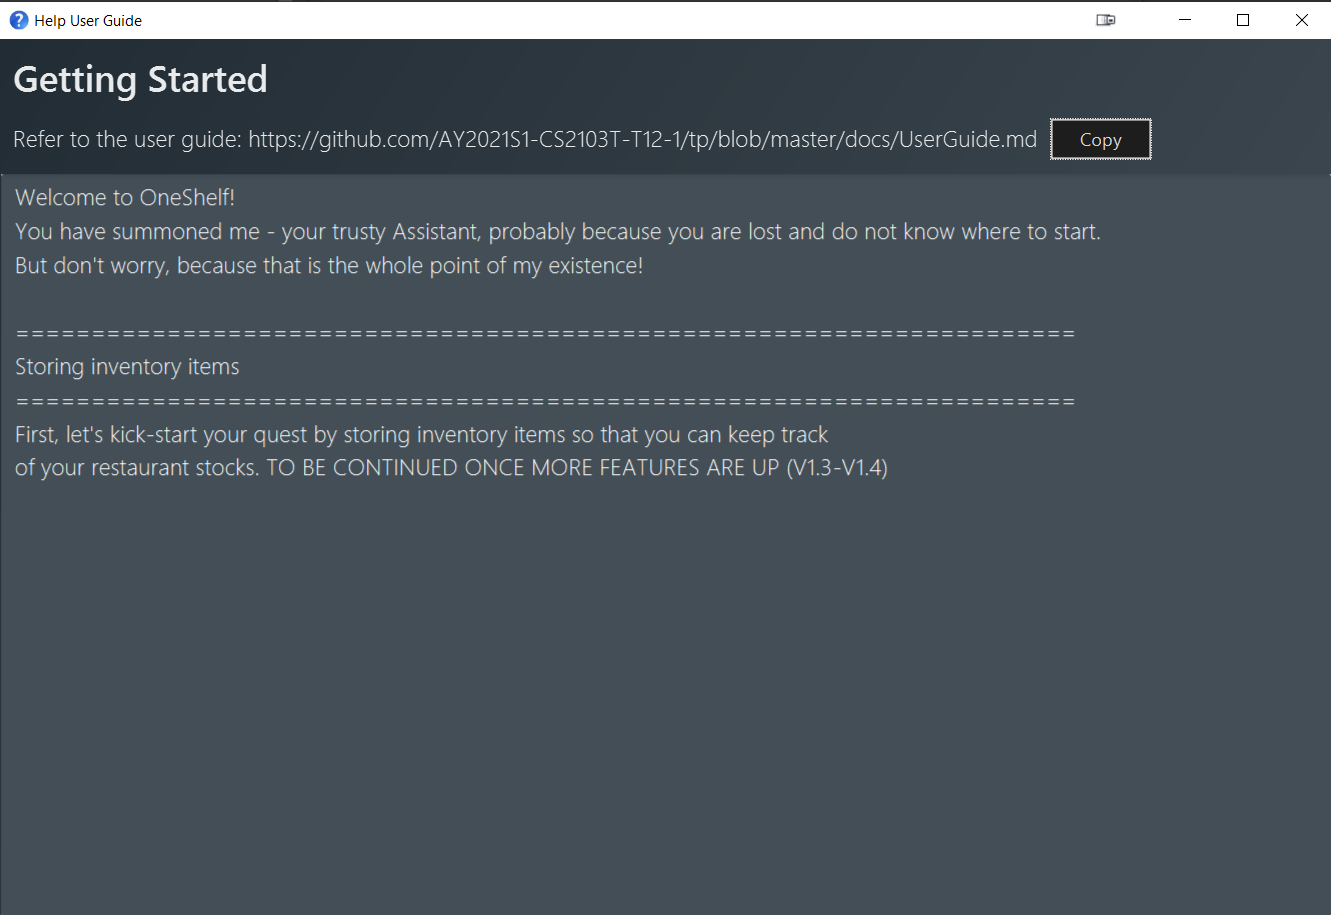
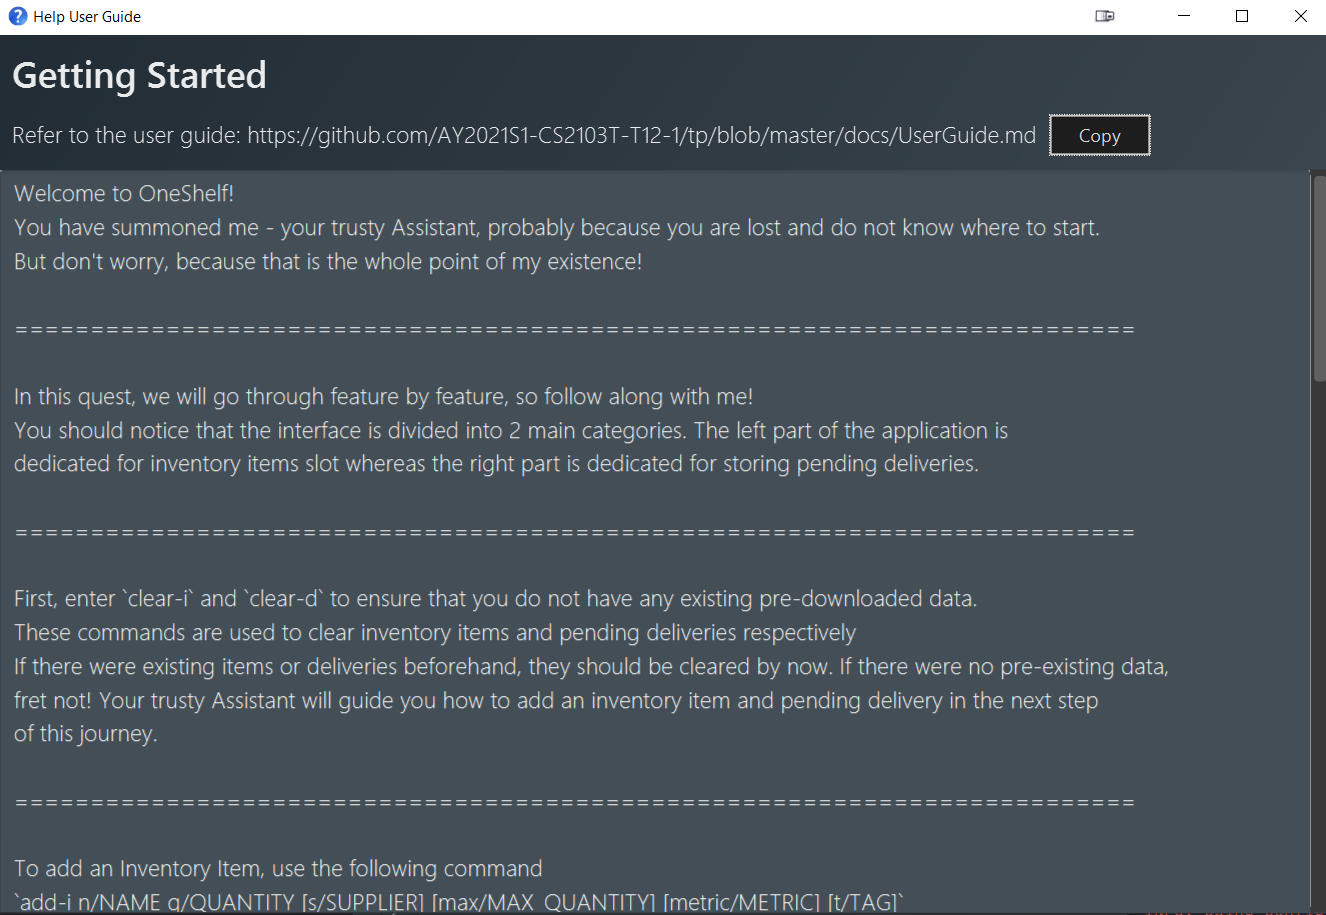
Update Ui.png

diff --git a/src/main/java/seedu/address/commons/core/Messages.java b/src/main/java/seedu/address/commons/core/Messages.java
@@ -44,11 +44,13 @@ public class Messages {
                         "of quantity 50 that was bought from NTUC store and tagged with meat category. If you want to add a metric of KG\n" +
                         "to the quantity, you can press KEY ARROW UP, and add metric/KG to it or whichever metric you deem suitable.\n")
                 .append("Once you have added the metric, you should see that the item has a metric attribute attached to it.\n" +
-                        "We are done with adding an inventory item! Adding a pending delivery is very similar to this,\n" +
+                        "We are done with adding an inventory item! " +
+                        "Adding a pending delivery is very similar to this,\n" +
                         "with just a slight difference in the command. You can enter the following command to add a delivery:\n" +
                         "`add-d n/NAME p/PHONE a/ADDRESS o/ORDER`\n" +
-                        "Example: `add-d n/DAMITH p/91231231 a/Jln Burong no 92 o/Mie Rebus`\n" +
-                        "GREAT JOB! Seems like you are getting the hang of it. If you have not seen the effect of clear-i and clear-d\n" +
+                        "Example: `add-d n/DAMITH p/91231231 a/Jln Burong no 92 o/Mie Rebus`\n")
+                .append(DIVIDER)
+                .append("GREAT JOB! Seems like you are getting the hang of it. If you have not seen the effect of clear-i and clear-d\n" +
                         "now is the time to do it! Afterwards, you may add the item and delivery above again just by scrolling up\n" +
                         "with the KEY ARROW UP button.\n")
                 .append(DIVIDER)

diff --git a/docs/UserGuide.md b/docs/UserGuide.md
@@ -16,7 +16,7 @@ track of inventory items and pending deliveries, OneShelf is for you!
 --------------------------------------------------------------------------------------------------------------------
 ## 2. Quick start
 
-1. Ensure you have Java `11` or above installed in your Computer.
+1. Ensure you have Java `11` or above irnstalled in your Computer.
 
 2. Download the latest `oneshelf.jar` from [here](https://github.com/AY2021S1-CS2103T-T12-1/tp/releases).
 
@@ -24,12 +24,12 @@ track of inventory items and pending deliveries, OneShelf is for you!
 
 4. Double-click the file to start the app. The similar GUI shown below (Figure 1) should appear in a few seconds. <br>
    *Note how the app contains some sample data but the installed version on your desktop might have a different data set.*<br>
-   ![Ui](images/Ui.png)
+   ![Ui](images/Ui.png) <br>
    Figure 1: Introduction to OneShelf User Interface
 
 5. Type the command `help start` in the command box and press Enter to execute it. <br>
    A new help window shown below (Figure 2) should appear on your desktop.
-   ![Help Window](images/UiHelpStart.png)
+   ![Help Window](images/UiHelpStart.png) <Br>
    Figure 2: Help Start Window
    
 
@@ -83,7 +83,7 @@ Alternatives:
 * Press `F2` at any point in the usage of the app
 * GUI navigation menu at the top left
 
-![Help Summary Screenshot](images/HelpSummaryWindow.png)
+![Help Summary Screenshot](images/HelpSummaryWindow.png) <br>
 Figure 3: Help Summary Window
 
 
